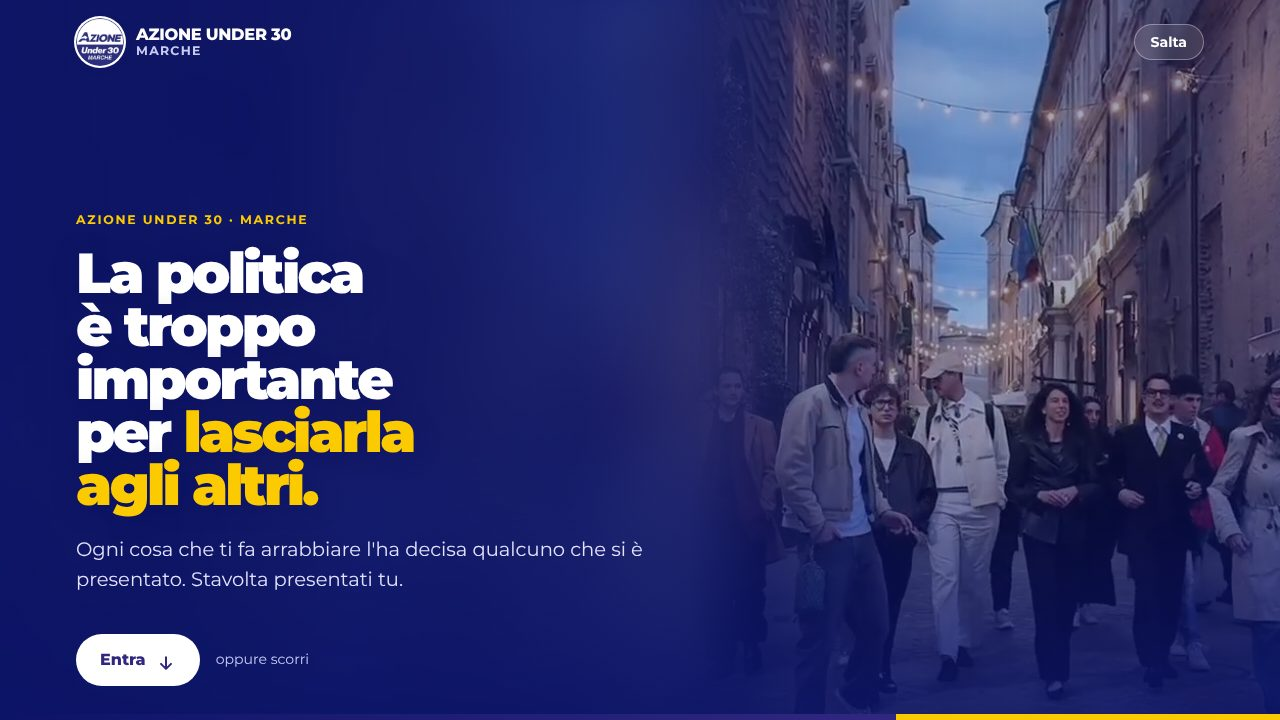
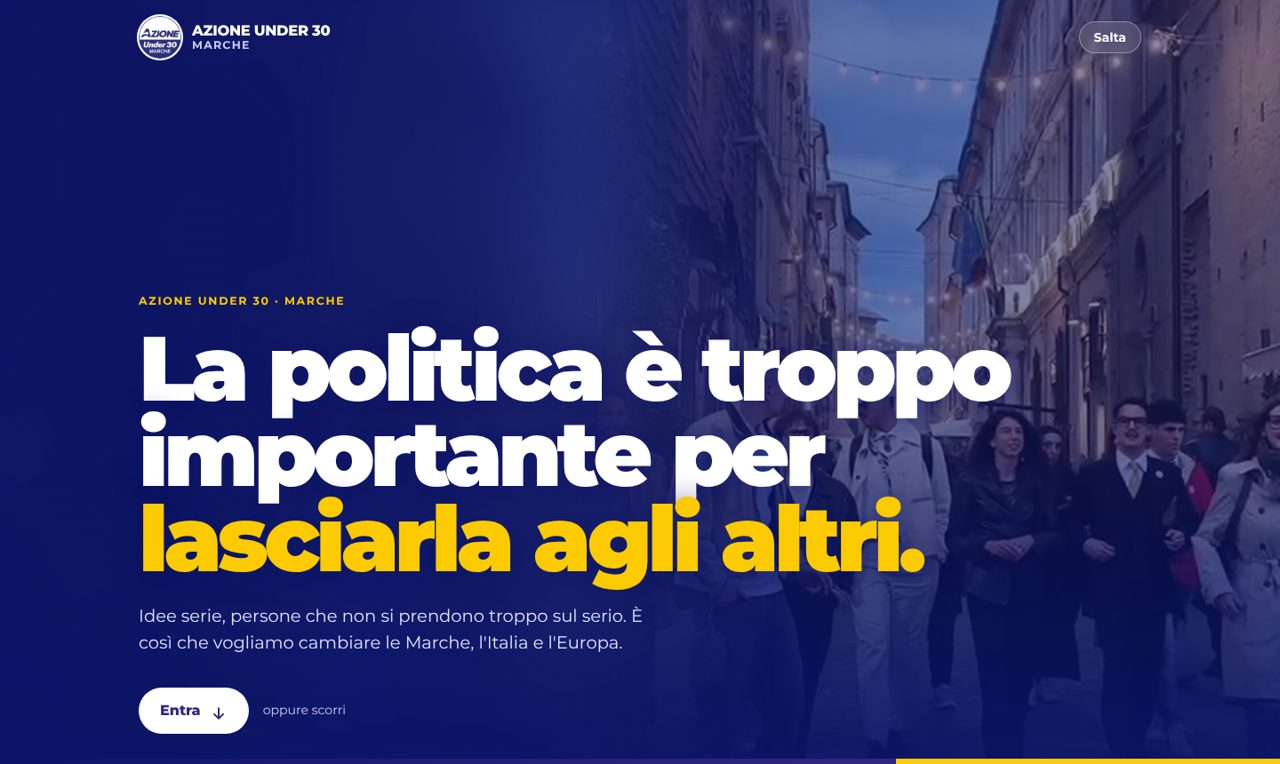
Apertura: titolo di nuovo largo sopra il video, nuova frase
Claude-Session: https://claude.ai/code/session_01NRyspFum324wAsFqW1YsHa

diff --git a/index.html b/index.html
@@ -284,11 +284,9 @@ footer a { color: #E4E6FF; }
 .intro-blur { position: absolute; inset: -40px; z-index: -3; background: #0C1467 center / cover no-repeat; filter: blur(34px) saturate(1.1); opacity: .55; display: none; }
 .intro.split .intro-blur { display: block; }
 @media (min-aspect-ratio: 1/1) {
-  .intro.split .intro-media { left: auto; width: min(46vw, 680px); -webkit-mask-image: linear-gradient(90deg, transparent 0, #000 22%); mask-image: linear-gradient(90deg, transparent 0, #000 22%); }
-  .intro.split::before { background: linear-gradient(90deg, rgba(12,20,103,.92) 0%, rgba(12,20,103,.78) 45%, rgba(12,20,103,.15) 75%, rgba(12,20,103,.35) 100%), linear-gradient(180deg, rgba(12,20,103,.2) 60%, rgba(12,20,103,.85) 100%); }
-  .intro.split .intro-body { padding-right: min(40vw, 600px); }
-  .intro.split h1 { font-size: clamp(2.4rem, 4.4vw, 4.4rem); max-width: 12ch; }
-  .intro.split .intro-foot { padding-top: 22px; }
+  .intro.split .intro-media { left: auto; width: min(56vw, 860px); -webkit-mask-image: linear-gradient(90deg, transparent 0, #000 30%); mask-image: linear-gradient(90deg, transparent 0, #000 30%); }
+  .intro.split::before { background: linear-gradient(90deg, rgba(12,20,103,.9) 0%, rgba(12,20,103,.78) 38%, rgba(12,20,103,.34) 66%, rgba(12,20,103,.16) 100%), linear-gradient(180deg, rgba(12,20,103,.25) 55%, rgba(12,20,103,.9) 100%); }
+  .intro.split h1 { text-shadow: 0 2px 30px rgba(12,20,103,.6); }
 }
 </style>
 </head>
@@ -308,7 +306,7 @@ footer a { color: #E4E6FF; }
   <div class="intro-body">
     <span class="intro-kicker" id="intro-kicker">Azione Under 30 · Marche</span>
     <h1 id="intro-frase">La politica è troppo importante per <span class="hl">lasciarla agli altri.</span></h1>
-    <p class="intro-sub" id="intro-sotto">Ogni cosa che ti fa arrabbiare l'ha decisa qualcuno che si è presentato. Stavolta presentati tu.</p>
+    <p class="intro-sub" id="intro-sotto">Idee serie, persone che non si prendono troppo sul serio. È così che vogliamo cambiare le Marche, l'Italia e l'Europa.</p>
   </div>
   <div class="intro-foot">
     <a class="intro-enter" href="#home">Entra <svg viewBox="0 0 24 24" aria-hidden="true"><path d="M12 5v14M6 13l6 6 6-6"/></svg></a>

diff --git a/presentazione/index.html b/presentazione/index.html
@@ -158,7 +158,7 @@ footer a { color: var(--muted); }
         </ul>
         <div class="actions"><a class="btn solid" href="../">Apri la home</a></div>
       </div>
-      <div class="shots duo"><a class="shot" href="img/apertura.jpg"><img src="img/apertura.jpg" alt="L'apertura del sito" loading="lazy" width="1280" height="720"></a><a class="shot" href="img/home.jpg"><img src="img/home.jpg" alt="La home del sito" loading="lazy" width="1400" height="875"></a></div>
+      <div class="shots duo"><a class="shot" href="img/apertura.jpg"><img src="img/apertura.jpg" alt="L'apertura del sito" loading="lazy" width="1280" height="764"></a><a class="shot" href="img/home.jpg"><img src="img/home.jpg" alt="La home del sito" loading="lazy" width="1400" height="875"></a></div>
     </section>
 
     <section class="part" id="voci">

diff --git a/sito-config.js b/sito-config.js
@@ -13,7 +13,7 @@ window.SITO_CONFIG = {
   intro: {
     kicker: "Azione Under 30 · Marche",
     frase: "La politica è troppo importante per *lasciarla agli altri.*",
-    sotto: "Ogni cosa che ti fa arrabbiare l'ha decisa qualcuno che si è presentato. Stavolta presentati tu.",
+    sotto: "Idee serie, persone che non si prendono troppo sul serio. È così che vogliamo cambiare le Marche, l'Italia e l'Europa.",
     immagine: "assets/foto/piazza-bandiere.jpg",
     immagineTelefono: "assets/foto/fiaccolata-ucraina.jpg",
     video: "assets/video/apertura.mp4",
